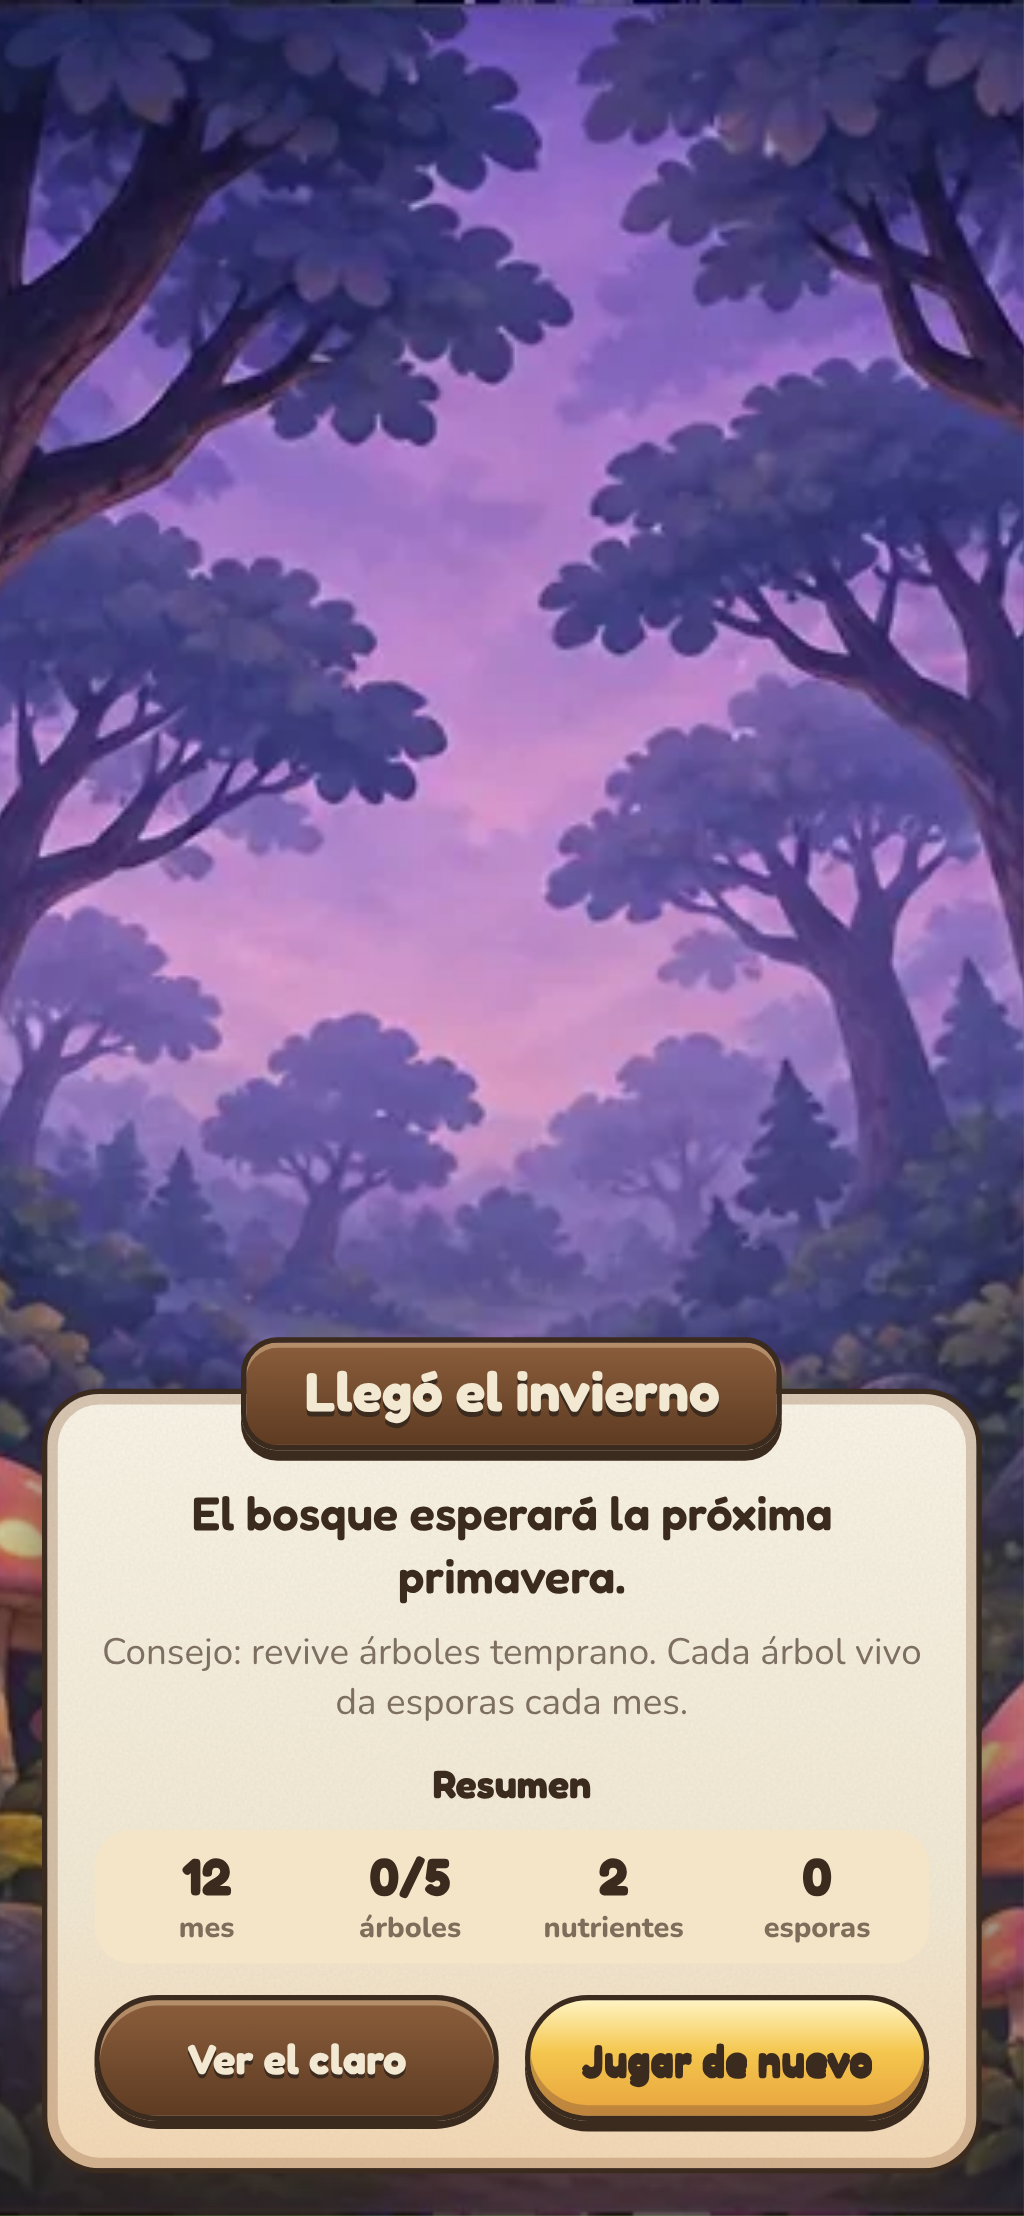
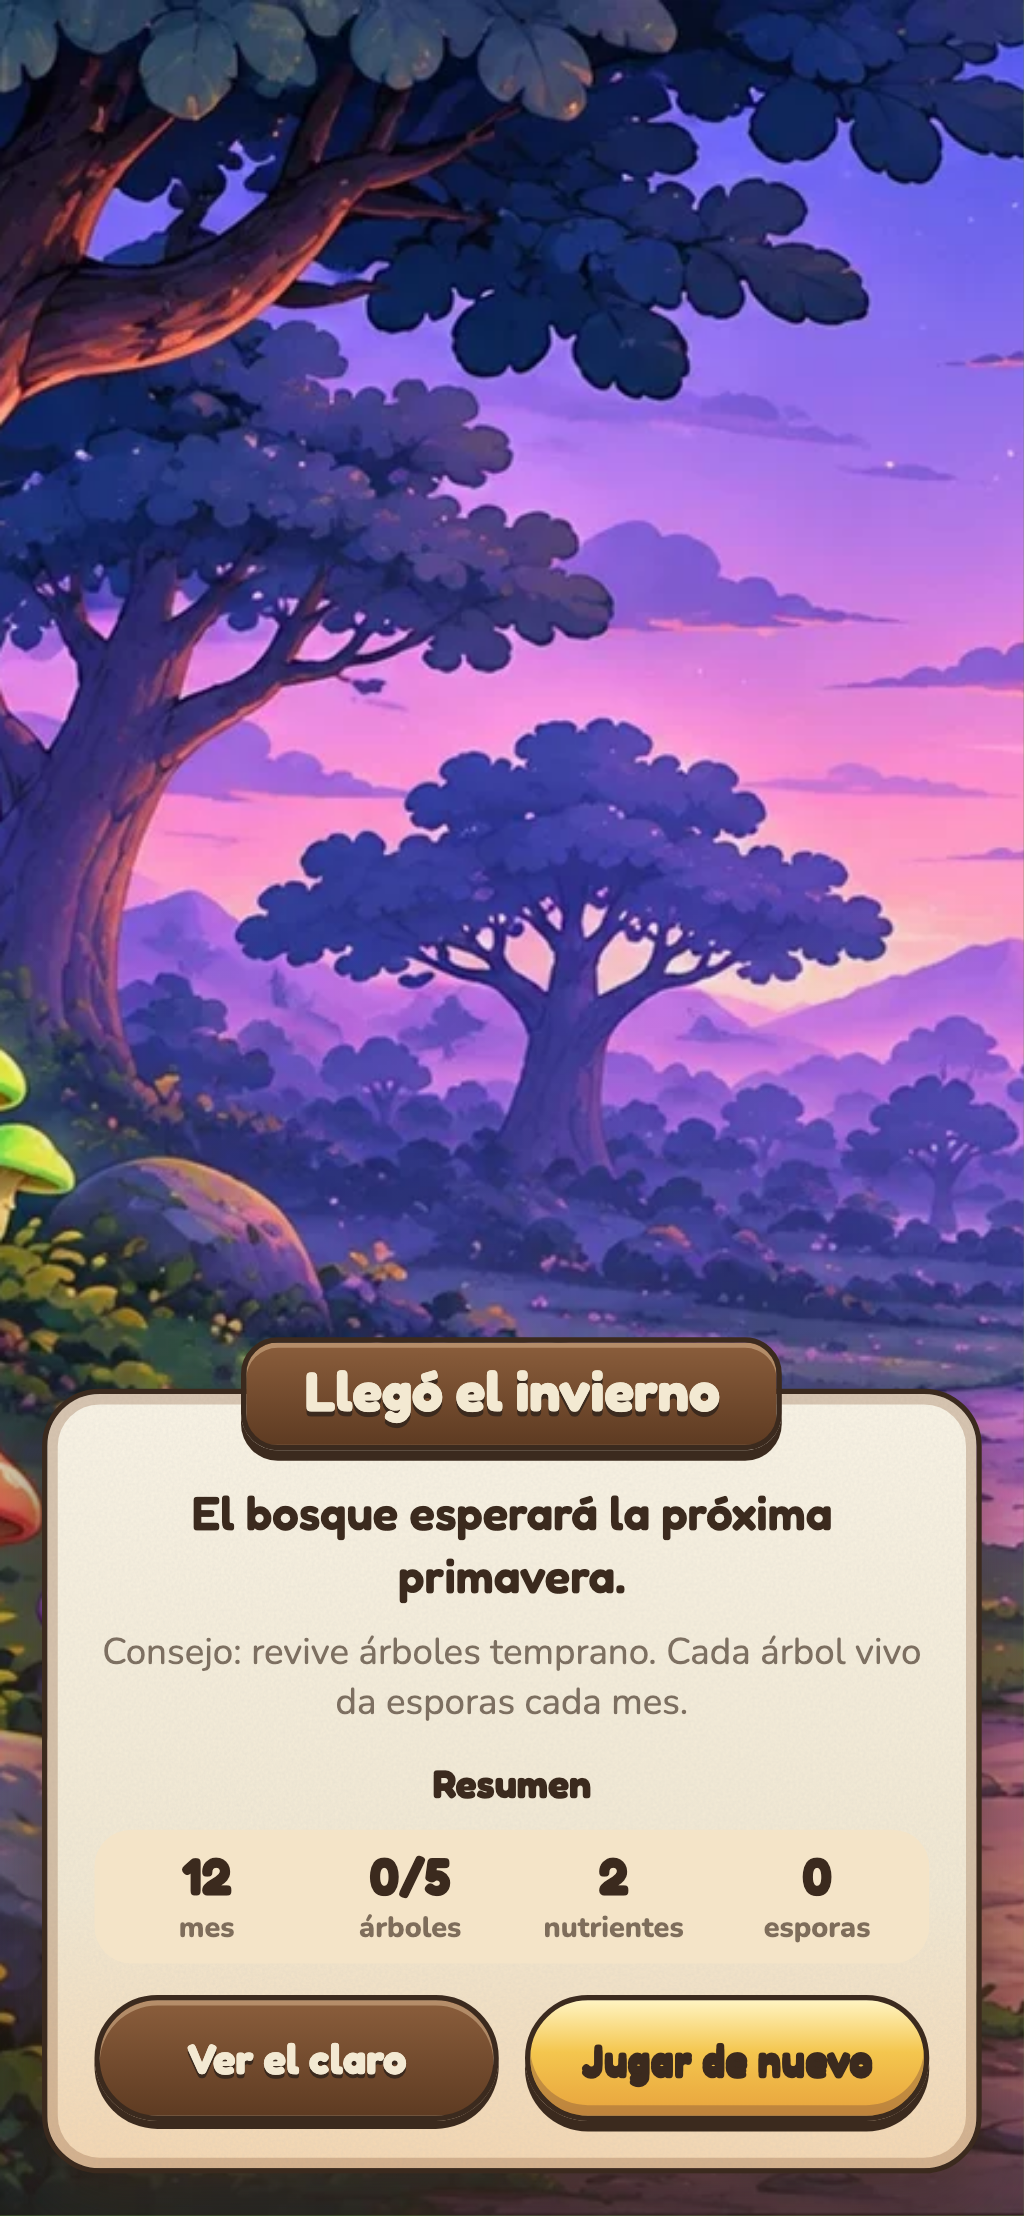
chore(assets): fondo nuevo del tutorial (intro)
- backgrounds/intro-landscape (nuevo, 16:9) desde fondo-intro-v2; reemplaza
  la panorámica intro-wide (307 px de alto) en horizontal y escritorio.
- backgrounds/intro: corte vertical de la misma hoja, corrido hacia los
  hongos morados y la roca. También es el fondo de la maga y del fin del
  invierno.
- La victoria ya usaba fondo-victoria-v2: sin cambios.
- Original en assets/ui/source/. public/assets: 94 archivos, 2,79 MB.

diff --git a/src/theme.ts b/src/theme.ts
@@ -138,7 +138,7 @@ const UI_ART: Record<string, string> = {
   // Cartas de historia (003): solo se descargan cuando se muestra la carta.
   'bg-intro': 'backgrounds/intro',
   'bg-victory': 'backgrounds/victory',
-  'bg-intro-wide': 'backgrounds/intro-wide',
+  'bg-intro-wide': 'backgrounds/intro-landscape',
   'bg-victory-wide': 'backgrounds/victory-landscape',
   moon: 'ui/icons/moon',
   recruit: 'ui/icons/recruit',

diff --git a/docs/art-direction.md b/docs/art-direction.md
@@ -105,8 +105,8 @@ FICHA                          EL GREMIO                      INTRO / VICTORIA
 - **Cómo jugar (012, hecho):** carrusel de 5 pasos en pergamino, cada uno con una ilustración de piezas publicadas, ‹ › (`ui/buttons/prev`, `next`), puntos y deslizar. Es la ayuda principal (el "?" la abre); la Libreta de campo queda como detalle.
 - **Ficha:** retrato grande, nombre, nombre científico y rol, contexto, frase entre comillas y secciones con etiqueta verde (Habilidad, Movimiento, Nutrientes…), como la ficha actual.
 - **El gremio (012, hecho):** lista de las cinco especies, cada fila con su medallón, nombre, rol y una línea; abre la ficha encima.
-- **Intro (003, hecho):** fondo `backgrounds/intro` (bosque lila apagado), tres cartas de pergamino con letrero de madera ("El bosque se apaga", "Un gremio despierta", "Antes del invierno"), puntos de progreso, "Saltar" y "Siguiente"/"Comenzar". La llegada de Maestra Bruma usa la misma carta con su retrato.
-- **Victoria (003, hecho):** fondo `backgrounds/victory`, letrero "¡El bosque despertó!", texto y resumen (mes, árboles, nutrientes, esporas); "Ver el claro" y "Jugar de nuevo" ("Ver resumen" se descartó: el resumen ya está en la carta). El fin del invierno usa el mismo layout con `backgrounds/intro`. En apaisado, el intro usa la panorámica `intro-wide`; la victoria usa `victory-landscape` (hoja `fondo-victoria-v2`: Árbol Padre dorado en el claro) con la carta a un costado para que el árbol se vea entero.
+- **Intro (003, hecho):** fondo `backgrounds/intro` (hoja `fondo-intro-v2`: camino del bosque al atardecer lila, con hongos de colores), tres cartas de pergamino con letrero de madera ("El bosque se apaga", "Un gremio despierta", "Antes del invierno"), puntos de progreso, "Saltar" y "Siguiente"/"Comenzar". La llegada de Maestra Bruma usa la misma carta con su retrato.
+- **Victoria (003, hecho):** fondo `backgrounds/victory`, letrero "¡El bosque despertó!", texto y resumen (mes, árboles, nutrientes, esporas); "Ver el claro" y "Jugar de nuevo" ("Ver resumen" se descartó: el resumen ya está en la carta). El fin del invierno usa el mismo layout con `backgrounds/intro`. En apaisado, el intro usa `intro-landscape` (la misma hoja completa, 16:9); la victoria usa `victory-landscape` (hoja `fondo-victoria-v2`: Árbol Padre dorado en el claro) con la carta a un costado para que el árbol se vea entero.
 
 ## Personajes
 - Cuerpo-tallo redondo, sombrero ≈ 55 % de la altura, cara mínima (ojos de punto, rubor, boca pequeña).
@@ -157,7 +157,7 @@ La saturación del progreso (003, hecho) va de apagado (40 % de color) a color p
 - **Piezas estirables:** marcos, pergamino, letrero, cinta y botones se entregan **en partes** (9 o 3 partes, con márgenes indicados) para que se estiren sin deformarse. Se usan con `border-image` o como capas.
 - **Estados por separado:** los brillos de casilla válida y seleccionada, y la ★, van como capas transparentes del mismo tamaño que la casilla.
 - **Sin texto horneado** (salvo el logo).
-- **Presupuesto:** `public/assets/` ≤ **4 MB** (decisión del 2 de noviembre; antes 2 MB). Hoy hay 2.49 MB. El JavaScript del juego no cuenta en este límite. Los fondos y piezas de portada, intro y victoria se cargan de forma diferida, cuando se muestra esa pantalla; la primera carga solo trae lo del tablero, los personajes y el HUD.
+- **Presupuesto:** `public/assets/` ≤ **4 MB** (decisión del 2 de noviembre; antes 2 MB). Hoy hay 2.79 MB. El JavaScript del juego no cuenta en este límite. Los fondos y piezas de portada, intro y victoria se cargan de forma diferida, cuando se muestra esa pantalla; la primera carga solo trae lo del tablero, los personajes y el HUD.
 - **Estaciones (010):** variantes pintadas por estación, sin gradación de color (descartada en el 003).
 
 ## Organización de assets
@@ -165,8 +165,8 @@ Lo que se publica vive en `public/assets/` (WebP). La fuente (Blender, renders a
 
 ```
 public/assets/
-├── backgrounds/        menu, intro, victory (verticales) · menu-landscape, victory-landscape (16:9) ·
-│                       menu-wide, intro-wide (panorámicas ≈ 5,4:1)
+├── backgrounds/        menu, intro, victory (verticales) · menu-landscape, intro-landscape,
+│                       victory-landscape (16:9) · menu-wide (panorámica ≈ 5,4:1)
 ├── board/
 │   ├── terrain/        grass, grass-b, grass-c, grass-autumn, grass-winter, dirt, sprout, sprout-seedling,
 │   │                   blocked, home, state-valid, state-selected
@@ -191,20 +191,20 @@ public/assets/
 - **Personajes:** la carpeta lleva el nombre del primer miembro de la especie (Añil = *Lactarius indigo*, Bruno = Champiñón, Rubí = *Amanita*, Chispa = *Gliophorus*, Maestra Bruma = *Conocybe arcana*); los reclutas de la misma especie usan el mismo arte. `portrait` es el retrato pintado para tablero, dock, fichas y "El gremio"; los sprites de Blender son fuente (`assets/sprites/webp/`).
 - **Micelio:** se dibuja con el tile completo `net`/`net-b` (decisión del 010). Los conectores (`straight-h`, `straight-v`, `corner`, `cross`…) sobre `dirt` quedan publicados para un efecto futuro (p. ej. el hilo que se teje); falta la pieza en T.
 - **Estaciones:** pasto (`grass-autumn`, `grass-winter`), rocas (`rock-winter`) y árboles (`autumn`, `winter`) cambian por estación (010). El Árbol Padre por estación (`spring-`…`winter-painted`) muestra un árbol vivo y verde, que se confunde con "despierto": por ahora el Padre usa solo `asleep-painted` y `awake-painted`.
-- **Fondos por orientación:** vertical en el teléfono (`menu`, `intro`, `victory`); en horizontal y escritorio, `menu-landscape` (16:9) para la portada y las panorámicas `*-wide` como franja superior o inferior detrás del tablero, la intro y la victoria. Las panorámicas solo tienen 310 px de alto: estiradas a pantalla completa se ven borrosas, así que van como franja y no como fondo completo.
+- **Fondos por orientación:** vertical en el teléfono (`menu`, `intro`, `victory`); en horizontal y escritorio, los 16:9 a pantalla completa (`menu-landscape` en la portada y la partida, `intro-landscape` en la intro, `victory-landscape` en la victoria). La panorámica `menu-wide` solo tiene 310 px de alto: estirada a pantalla completa se ve borrosa, así que solo sirve como franja.
 - **Fuera del árbol propuesto:** el Hogar, los estados de casilla y `blocked` van en `board/terrain/`, y los logos y pastillas en `ui/hud/`.
 - **Código:** `src/theme.ts` arma las rutas (`assetUrl`, `portraitKey`, `uiPortraitKey`, `CHARACTER_DIR`, `fatherKey`, `BOARD_ART`, y las variables CSS `--art-*` de la interfaz); ningún otro archivo escribe rutas de assets a mano.
 
 ## Inventario de piezas
-93 archivos publicados, 2.49 MB en total (el 010 sacó los sprites de Blender a `assets/sprites/webp/`). "Listo" significa que el ancho alcanza para 2× a 390 px; los demás sirven para maquetar y hay que reexportarlos. Retirados en la v2 por traer texto horneado o baja resolución: las tarjetas con placa (`card`), `ribbon-hint`, `page-dots` y `rock-dark`.
+94 archivos publicados, 2.79 MB en total (el 010 sacó los sprites de Blender a `assets/sprites/webp/`). "Listo" significa que el ancho alcanza para 2× a 390 px; los demás sirven para maquetar y hay que reexportarlos. Retirados en la v2 por traer texto horneado o baja resolución: las tarjetas con placa (`card`), `ribbon-hint`, `page-dots` y `rock-dark`.
 
 | Archivo | Origen | Tamaño | Peso | Estado |
 | --- | --- | --- | --- | --- |
 | `backgrounds/menu-landscape.webp` | fondo-claro-v2 | 1671 × 941 | 406 KB | Listo |
 | `backgrounds/victory-landscape.webp` | fondo-victoria-v2 | 1672 × 941 | 407 KB | Listo |
 | `backgrounds/menu-wide.webp` | panorámicas | 1670 × 310 | 162 KB | Listo como franja (310 px de alto); para pantalla completa haría falta ≥ 1080 px de alto |
-| `backgrounds/intro-wide.webp` | panorámicas | 1670 × 307 | 124 KB | Listo como franja (310 px de alto); para pantalla completa haría falta ≥ 1080 px de alto |
-| `backgrounds/intro.webp` | logo y fondos | 465 × 631 | 55 KB | Baja resolución (objetivo 860 px de ancho) |
+| `backgrounds/intro-landscape.webp` | fondo-intro-v2 | 1672 × 941 | 386 KB | Listo |
+| `backgrounds/intro.webp` | fondo-intro-v2 (corte vertical, hacia los hongos) | 527 × 941 | 89 KB | Usable; para 2× a 390 px haría falta ≥ 780 px de ancho |
 | `backgrounds/menu.webp` | fondo-claro-v2 (corte vertical) | 527 × 941 | 110 KB | Usable; para 2× a 390 px haría falta ≥ 780 px de ancho |
 | `backgrounds/victory.webp` | fondo-victoria-v2 (corte vertical) | 527 × 941 | 119 KB | Usable; para 2× a 390 px haría falta ≥ 780 px de ancho |
 | `board/father-tree/asleep-painted.webp` | tablero HD | 590 × 450 | 79 KB | Listo |
@@ -306,7 +306,7 @@ public/assets/
 - Los renders de Blender viven en `assets/sprites/` (PNG) y sus WebP de 176 × 128 (Maestra Bruma 176 × 160) en `assets/sprites/webp/`, como fuente.
 - **Árbol Padre:** desde el 010 el tablero usa `asleep-painted` / `awake-painted` a 1,35 casillas de ancho (`FATHER_SCALE`). El de Blender, `assets/blender/arbol-padre.blend` (estados en `estados_arbol.py`), queda como fuente en `assets/sprites/webp/board/father-tree/{asleep,awake}.webp` (176 × 192). Dormido: tronco retorcido gris, raíces largas y ramas desnudas. Despierto: corteza cálida y copa dorada en paraguas (hojas `#F2BC45`, sombra `#C98A2B`, luz `#FFE08A`) con borde que brilla `#FFE27A`, aura `#FFF4C2`, luces cálidas y destellos. En el tablero mide 1,2 casillas de ancho y su copa asoma por encima del marco. Sustituye en el tablero a los recortes `public/assets/ui/arbol-padre-*.webp` (placeholders de baja resolución). La v2 plantea dibujarlo de unas 3 casillas de ancho; este mes mide 1,2 (`FATHER_SCALE` en `theme.ts`) y queda pendiente decidir el tamaño final.
 - La silueta de cono de cada especie (`.hat--*` en `styles.css`) queda solo como respaldo si un retrato faltara.
-- Peso: todo `public/assets/` suma 2.49 MB en WebP (límite 4 MB).
+- Peso: todo `public/assets/` suma 2.79 MB en WebP (límite 4 MB).
 
 ## Referencias (`references/`)
 | Archivo | Tomamos | Dejamos |
